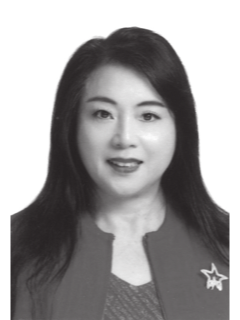
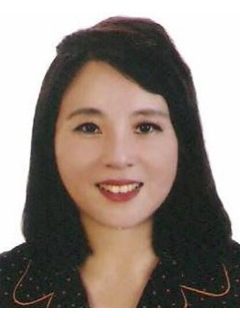
fix: replace Hung portrait with permitted color image (#71)

diff --git a/scripts/lib/portraits.js b/scripts/lib/portraits.js
@@ -1,4 +1,4 @@
-// 候選人正式肖像：核對中選會公報或立法院委員頁、姓名對應、原圖與成品、各站授權，建置與關卡共用。
+// 候選人正式肖像：核對官方來源或 ADR 指定單張許可例外、姓名、原圖與成品、使用依據，建置與關卡共用。
 // Node 專用；不依臉部推斷身分，姓名欄與影像物件的對應由抽取者目視核對並記錄。
 import { createHash } from 'node:crypto';
 
@@ -44,14 +44,25 @@ export function portraitProblems(dataset, manifest, readImage) {
         || item.imageAlt !== `${candidate.name}委員照片` || item.sourceCredit !== '委員研究室提供'
         || item.sourceLabel !== '立法院第11屆委員（委員研究室提供）' || item.sourceId !== undefined) fail('立法院委員頁、原圖、姓名對應或來源署名不符');
       if (rights?.declarationUrl !== LY_PORTRAIT_DECLARATION || rights?.licenseUrl !== null) fail('立法院授權依據不符');
+    } else if (item.sourceKind === 'ltn-permitted-portrait') {
+      if (candidate.id !== 'hung-li-hua' || candidate.name !== '洪麗華'
+        || item.sourceUrl !== 'https://news.ltn.com.tw/news/politics/breakingnews/5599336'
+        || item.imageUrl !== 'https://img.ltn.com.tw/Upload/news/600/2026/10/08/5599336_3_1.jpg'
+        || item.caption !== '洪麗華競選形象照。（記者張軒哲翻攝）'
+        || item.sourceCredit !== '記者張軒哲翻攝' || item.sourceLabel !== '自由時報（記者張軒哲翻攝）'
+        || item.photographer !== null || item.sourceId !== undefined
+        || item.originalWidth !== 415 || item.originalHeight !== 512) fail('指定照片、姓名、尺寸或翻攝署名不符');
+      if (rights?.evidence !== '維護者於2026-10-25確認已取得使用許可' || rights?.checkedAt !== '2026-10-25'
+        || rights?.declarationUrl !== undefined || rights?.licenseUrl !== undefined
+        || rights?.specialExclusion !== undefined) fail('指定照片的維護者許可確認不符，不得冒用開放授權');
     } else fail('不支援的肖像來源');
     if (!date(item.retrievedAt) || !date(item.identityCheckedAt) || !text(item.position) || !text(item.extraction)
       || !(item.photographer === null || text(item.photographer))) fail('抽取或姓名位置核對紀錄不完整');
-    if (rights?.status !== 'cleared' || rights.specialExclusion !== false || !date(rights.checkedAt)
+    if (rights?.status !== 'cleared' || (item.sourceKind !== 'ltn-permitted-portrait' && rights.specialExclusion !== false) || !date(rights.checkedAt)
       || !text(rights.evidence) || !text(rights.limitations)) fail('授權依據未確認或有特別排除');
     if (item.width !== PORTRAIT_SIZE.width || item.height !== PORTRAIT_SIZE.height) fail('肖像尺寸不一致');
     if (!/^[a-z0-9-]+$/.test(candidate.id) || item.file !== `${candidate.id}.png`) { fail('肖像檔名不符'); continue; }
-    const originalExtension = item.sourceKind === 'ly-legislator' ? 'jpg' : 'png';
+    const originalExtension = item.sourceKind === 'cec-bulletin' ? 'png' : 'jpg';
     if (item.originalFile !== `${candidate.id}-original.${originalExtension}`) fail('原圖檔名不符');
     else {
       const original = readImage(item.originalFile);

diff --git a/test/portraits.test.js b/test/portraits.test.js
@@ -41,6 +41,52 @@ function mixedFixture() {
   return f;
 }
 
+// 指定照片例外須核對真實姓名；不建立掛真實姓名的示範政見。
+function permittedFixture() {
+  const f = mixedFixture();
+  const candidate = f.dataset.candidates[2];
+  candidate.id = 'hung-li-hua'; candidate.name = '洪麗華';
+  f.manifest.items[2] = {
+    ...f.manifest.items[2], candidateId: candidate.id, candidateName: candidate.name,
+    sourceKind: 'ltn-permitted-portrait', sourceId: undefined,
+    sourceUrl: 'https://news.ltn.com.tw/news/politics/breakingnews/5599336',
+    imageUrl: 'https://img.ltn.com.tw/Upload/news/600/2026/10/08/5599336_3_1.jpg',
+    caption: '洪麗華競選形象照。（記者張軒哲翻攝）', sourceCredit: '記者張軒哲翻攝',
+    sourceLabel: '自由時報（記者張軒哲翻攝）',
+    file: 'hung-li-hua.png', originalFile: 'hung-li-hua-original.jpg',
+    originalWidth: 415, originalHeight: 512,
+    rights: { status: 'cleared', checkedAt: '2026-10-25',
+      evidence: '維護者於2026-10-25確認已取得使用許可',
+      limitations: '僅此指定照片作中立辨識，不推論其他素材授權' },
+  };
+  return f;
+}
+
+test('指定照片僅憑維護者明確確認使用許可放行，照片來源與學經歷分開', () => {
+  const f = permittedFixture();
+  assert.deepEqual(portraitProblems(f.dataset, f.manifest, f.readImage), []);
+  attachPortraits(f.dataset, f.manifest);
+  assert.equal(f.dataset.candidates[2].portrait.sourceUrl, 'https://news.ltn.com.tw/news/politics/breakingnews/5599336');
+  assert.notEqual(f.dataset.candidates[2].profile.sourceId, undefined);
+});
+
+for (const [name, change] of [
+  ['未確認許可', i => i.rights.status = 'pending'],
+  ['沒有確認紀錄', i => i.rights.evidence = '公開上網'],
+  ['冒用開放授權', i => i.rights.licenseUrl = 'https://data.gov.tw/license'],
+  ['其他新聞頁', i => i.sourceUrl = 'https://news.ltn.com.tw/news/politics/breakingnews/5599337'],
+  ['活動照片', i => i.imageUrl = 'https://img.ltn.com.tw/Upload/news/600/2026/10/08/5599336_1_1.jpg'],
+  ['姓名不符', i => i.candidateName = '候選人乙'],
+  ['漏翻攝署名', i => i.caption = '洪麗華競選形象照。'],
+  ['翻攝者冒充原攝影者', i => i.photographer = '張軒哲'],
+  ['原圖尺寸不符', i => i.originalWidth = 600],
+  ['原圖雜湊不符', i => i.originalSha256 = 'a'.repeat(64)],
+  ['成品雜湊不符', i => i.fileSha256 = 'a'.repeat(64)],
+]) test(`指定照片遇${name}拒絕整組`, () => {
+  const f = permittedFixture(); change(f.manifest.items[2]);
+  assert.ok(portraitProblems(f.dataset, f.manifest, f.readImage).length > 0);
+});
+
 test('可用官方肖像個別更新，立法院與公報混用，照片出處獨立於學經歷', () => {
   const f = mixedFixture();
   assert.deepEqual(portraitProblems(f.dataset, f.manifest, f.readImage), []);

diff --git a/test/portrait-display.test.js b/test/portrait-display.test.js
@@ -7,6 +7,25 @@ const candidates = ['a','b','c'].map((id) => ({ id, profile: { sourceId: `src-${
 const deferred = () => { let resolve, reject; const promise = new Promise((a,b) => {resolve=a;reject=b;}); return {promise,resolve,reject}; };
 const images = () => candidates.map(() => { const d=deferred(); return { ...d, decode: () => d.promise, naturalWidth:240, naturalHeight:320 }; });
 
+test('指定許可肖像與官方照片一起呈現，錯誤候選人或其他新聞頁仍全退回', () => {
+  const mixed = structuredClone(candidates);
+  Object.assign(mixed[2], { id: 'hung-li-hua', name: '洪麗華', portrait: {
+    url: 'data/portraits/hung-li-hua.png', sourceKind: 'ltn-permitted-portrait',
+    sourceUrl: 'https://news.ltn.com.tw/news/politics/breakingnews/5599336',
+    sourceLabel: '自由時報（記者張軒哲翻攝）', retrievedAt: '2026-10-25',
+  } });
+  assert.equal(portraitSet(mixed).length, 3);
+  for (const change of [
+    c => c[2].name = '候選人乙',
+    c => { c[2].id = 'other'; c[2].portrait.url = 'data/portraits/other.png'; },
+    c => c[2].portrait.sourceUrl = 'https://news.ltn.com.tw/news/politics/breakingnews/5599337',
+    c => c[2].portrait.sourceLabel = '自由時報',
+  ]) {
+    const copy = structuredClone(mixed); change(copy);
+    assert.deepEqual(portraitSet(copy), []);
+  }
+});
+
 test('肖像只在三人具本機影像與獨立官方出處時可呈現，來源可混合', () => {
   assert.equal(portraitSet(candidates).length,3);
   const mixed = structuredClone(candidates);

diff --git a/site/js/candidate-portraits.js b/site/js/candidate-portraits.js
@@ -1,12 +1,16 @@
 // 候選人資料卡的正式肖像：Node 可測，不碰 three.js，不在其他檢視畫照片。
 // 每組三張全部解碼後才一起顯示；任一組失敗，已開啟的各組與後續重畫都一致回退。
+// 官方來源之外僅接受 ADR 明列的洪麗華單張許可例外；完整使用依據由建置與關卡核對。
 export function portraitSet(candidates) {
   if (candidates.length !== 3 || new Set(candidates.map(c => c.id)).size !== 3) return [];
   if (!candidates.every(c => c.profile && c.portrait
     && /^[a-z0-9-]+$/.test(c.id) && c.portrait.url === `data/portraits/${c.id}.png`
     && typeof c.portrait.sourceLabel === 'string' && c.portrait.sourceLabel.trim()
     && ((c.portrait.sourceKind === 'cec-bulletin' && /^https:\/\/([a-z0-9-]+\.)*cec\.gov\.tw\//.test(c.portrait.sourceUrl))
-      || (c.portrait.sourceKind === 'ly-legislator' && /^https:\/\/www\.ly\.gov\.tw\/Pages\/List\.aspx\?nodeid=\d+$/.test(c.portrait.sourceUrl))))) return [];
+      || (c.portrait.sourceKind === 'ly-legislator' && /^https:\/\/www\.ly\.gov\.tw\/Pages\/List\.aspx\?nodeid=\d+$/.test(c.portrait.sourceUrl))
+      || (c.portrait.sourceKind === 'ltn-permitted-portrait' && c.id === 'hung-li-hua' && c.name === '洪麗華'
+        && c.portrait.sourceUrl === 'https://news.ltn.com.tw/news/politics/breakingnews/5599336'
+        && c.portrait.sourceLabel === '自由時報（記者張軒哲翻攝）')))) return [];
   return candidates.map(c => c.portrait);
 }
 

diff --git a/site/js/dataset.js b/site/js/dataset.js
@@ -90,7 +90,8 @@ const SCHEMAS = {
     'rawPolicyItems.total': 'count?',
     'rawPolicyItems.sourceIds': 'strings',
     dataStatus: 'string?',
-    // 僅建置時加入；正式肖像的完整來源與授權證據在肖像清單，三人全有或全無。
+    // 僅建置時加入；來源為 cec-bulletin、ly-legislator 或 ADR 單張例外 ltn-permitted-portrait。
+    // 完整來源與使用依據在肖像清單，三人全有或全無；照片不借指學經歷來源。
     'portrait?': 'object',
     'portrait.url': 'string',
     'portrait.sourceKind': 'string',

diff --git a/data/extraction/candidate-portraits.md b/data/extraction/candidate-portraits.md
@@ -1,16 +1,22 @@
 # 正式肖像抽取方法
 
-依 ADR 0001 的有限例外，正式肖像僅在候選人資料卡使用。可依已核對的可用官方素材個別更新，不必三人同年、同站或同色，各自保留原色。三人同尺寸、同處理，照片與來源授權全部齊全才公開；任一載入失敗仍全組回退。不延伸到政見、3D 人物、政績或其他個人資料。學經歷仍逐字取自中選會公報，照片出處另列。
+依 ADR 0001 的有限例外，正式肖像僅在候選人資料卡使用。可依已核對的可用官方素材或明列的單張許可例外個別更新，不必三人同年、同站或同色，各自保留原色。三人同尺寸、同處理，照片與使用依據全部齊全才公開；任一載入失敗仍全組回退。不延伸到政見、3D 人物、政績或其他個人資料。學經歷仍逐字取自中選會公報，照片出處另列。
 
-## 來源與權利核對（2026-10-24）
+## 來源與權利核對（2026-10-25 更新）
 
 | 候選人 | 照片來源 | 原圖與姓名對應 | 來源註記 |
 |---|---|---|---|
 | 江啟臣 | [立法院第11屆委員頁](https://www.ly.gov.tw/Pages/List.aspx?nodeid=46764) | [官方原圖](https://www.ly.gov.tw/Images/Legislators/110009.jpg)，頁面姓名與照片替代文字「江啟臣委員照片」對應 | 委員研究室提供 |
 | 何欣純 | [立法院第11屆委員頁](https://www.ly.gov.tw/Pages/List.aspx?nodeid=46765) | [官方原圖](https://www.ly.gov.tw/Images/Legislators/110010.jpg)，頁面姓名與照片替代文字「何欣純委員照片」對應 | 委員研究室提供 |
-| 洪麗華 | 中選會2024年第11屆立法委員選舉公報，臺中市第2選舉區 | 第1頁左下「洪麗華」姓名欄下方，2024號次3，影像物件97 0 | 原公報未標攝影者 |
+| 洪麗華 | [自由時報指定頁面](https://news.ltn.com.tw/news/politics/breakingnews/5599336) | [指定原圖](https://img.ltn.com.tw/Upload/news/600/2026/10/08/5599336_3_1.jpg)，圖說「洪麗華競選形象照。（記者張軒哲翻攝）」對應 | 記者張軒哲翻攝；未標原攝影者 |
 
-完整來源網址、取得日期、原圖與成品雜湊、姓名位置與授權紀錄在[正式肖像清單](https://github.com/kcchien/tc-policy-island/blob/main/data/portraits/manifest.json)。身分依姓名與影像在官方頁面的對應核對，不以臉部推斷。立法院兩張為彩色，拍攝日期未標示，第11屆不是拍攝年份，不宣稱2026年近照。洪麗華沿用已核准黑白照。本輪不採用未附本站使用許可的媒體照片。
+完整來源網址、取得日期、原圖與成品雜湊、姓名位置與使用依據在[正式肖像清單](https://github.com/kcchien/tc-policy-island/blob/main/data/portraits/manifest.json)。身分依姓名與影像在來源頁面的對應核對，不以臉部推斷。三張均為彩色，拍攝日期未標示，第11屆不是拍攝年份，不宣稱2026年近照。
+
+### 洪麗華指定照片的單張許可例外
+
+使用依據僅記錄「維護者於2026-10-25確認已取得使用許可」。未獨立核實授權人、文件或範圍，不宣稱自由時報網站開放授權，不套用中選會或立法院宣告。此例外僅限上表指定頁面、原圖及圖說，不是媒體通用白名單；政見及學經歷仍限原本的一手來源。來源頁的圖片連結、替代文字與圖說均明確對應洪麗華競選形象照，不採另一張活動照片。
+
+保留自由時報來源及「記者張軒哲翻攝」署名。翻攝者不等於原攝影者，未標原攝影者不代表沒有攝影者。本站僅作中立辨識，不暗示任何人認可本站，不修臉、不作宣傳代言；使用許可不代替肖像等人格權判斷。發現權利衝突即全組停用。
 
 ### 立法院照片
 
@@ -20,7 +26,7 @@
 
 ### 中選會照片
 
-洪麗華公報第1頁姓名欄與照片物件已逐一核對；逐頁目視兩頁、搜尋全文及檢視正式來源列表頁，未見照片特別排除或攝影者署名。第2頁為投開票所一覽表。這是本次檢視結果，不推論所有中選會素材皆無限制。
+先前洪麗華黑白照取自公報第1頁姓名欄與照片物件，已由上述指定彩照替換。以下中選會使用依據只適用公報照片，不是此次媒體照片的使用依據。
 
 使用依據是中選會[網站資料開放宣言](https://web.cec.gov.tw/central/article/21322)及[政府資料開放授權條款第1版](https://data.gov.tw/license)，不是「公文無著作權」。宣言第一節涵蓋全站資料與素材於著作權範圍的重製、改作、編輯與公開傳輸，要求註明出處；第二節保留特別聲明須同意的素材排除。須尊重姓名表示與禁止不當變更，不暗示官方認可。
 
@@ -28,10 +34,10 @@
 
 ## 抽取與影像處理
 
-1. 立法院照片保存官方原始 JPEG，核對委員頁姓名、照片替代文字、原圖連結與來源註記。中選會照片用 `pdfimages -png` 抽出公報原始影像，記錄公報雜湊、頁面、影像物件與姓名欄位置。兩類都保存原圖及 SHA-256，不依臉部辨認。
-2. 三人同用「完整原圖等比例放進240×320範圍」規則：用 `sips` 等比例縮放，再以 `FFFFFF` 補足240×320。兩張立法院原圖皆826×1062，以寬240縮放後補白；洪麗華沿用既有以高320縮放的成品，不為任何一人另調構圖。
+1. 立法院照片保存官方原始 JPEG，核對委員頁姓名、照片替代文字、原圖連結與來源註記。中選會照片用 `pdfimages -png` 抽出公報原始影像，記錄公報雜湊、頁面、影像物件與姓名欄位置。指定許可照片保存原始 JPEG，核對來源頁姓名、圖片連結、完整圖說與翻攝署名。均保存原圖及 SHA-256，不依臉部辨認。
+2. 三人同用「完整原圖等比例放進240×320範圍」規則：用 `sips` 等比例縮放，再以 `FFFFFF` 補足240×320。兩張立法院原圖皆826×1062，洪麗華指定原圖415×512，均以寬240縮放後補白；不為任何一人另調構圖。
 3. 不去背、不改臉、不銳化、不調膚色、不生成、不上色。彩色與黑白各自保留原色，原照服飾配件保留在完整影像中，不獨立當本站識別。
 4. 完整清單記錄候選人識別碼及姓名、來源類型、實際來源網址及說明、原圖網址或公報物件、屆別或選舉年份、取得日、姓名位置與核對日、原圖及成品雜湊、處理方式、240×320尺寸、署名、各站授權連結、特別排除及使用限制。攝影者為 `null` 只表示未標攝影者。
-5. 建置分別核對中選會公報與立法院委員頁兩類來源規則、姓名、官方網域、必要署名、各站授權宣告、日期、原圖及成品雜湊、尺寸。中選會仍與原有候選人資料公報核對；立法院照片有獨立出處，不借指學經歷公報。任一缺漏，清除舊公開影像且三人均不加肖像欄位。原圖隨成品及清單複製，建置後關卡再核對一次。
+5. 建置分別核對中選會公報、立法院委員頁的來源規則與宣告，以及單張許可例外的精確頁面、原圖、姓名、圖說、翻攝署名與維護者確認紀錄，另核對日期、原圖及成品雜湊、尺寸。中選會仍與原有候選人資料公報核對；其他照片有獨立出處，不借指學經歷公報。任一缺漏，清除舊公開影像且三人均不加肖像欄位。原圖隨成品及清單複製，建置後關卡再核對一次。
 6. 瀏覽器每組三張全部成功解碼、尺寸相符才一起顯示；索引與對話框共用失敗狀態，任一失敗全頁各組均回退，後續重畫也不再顯示。沿用文字資料卡，不留破圖。
 7. 卡片照片均以80×80圓形遮罩放在姓名左側，三人使用相同等比例填滿、水平置中與靠上設定及中性色細邊框，保留髮頂、五官與下巴，不拉伸、不改原始影像檔，儘量不露胸前配件。各張附實際照片出處與本使用說明連結，學經歷資料來源另列。任一人的可用新照片可單獨替換，另外兩人沿用已核准照片，三份正式素材仍須完整。

diff --git a/docs/adr/0001-neutrality-rules.md b/docs/adr/0001-neutrality-rules.md
@@ -9,7 +9,7 @@
 - 候選人在 3D 場景中以同一款中性人物呈現，身形、精緻度、動作相同，不模仿長相，只以名牌與形狀區分。
 - 候選人資料欄位固定為姓名、政黨、出生年、學歷、經歷，三人相同；正式肖像只依下節有限例外加入。來源只用中選會（選舉資料庫、選舉公報），經歷逐字呈現，不改寫。不收政績、爭議、財產、媒體報導與候選人自我介紹。
 - 島上元素只取與市政建設無關的在地元素，不放任何與市長任期綁定的地標。
-- 只收一手來源，不收媒體報導。
+- 政見與學經歷只收原本規定的一手來源，不收媒體報導；正式肖像僅另有下節明列的單張照片例外。
 - 每人篇幅與字級相同。不評分、不排名、不推薦。
 - 不收民調，不放捐款或催票連結，不放任何陣營的 logo 或照片；正式肖像只依下節有限例外使用。
 - 名稱、文案、網域不得使用任何候選人的品牌用語或其諧音。
@@ -21,6 +21,7 @@
 
 ## 正式肖像有限例外（2026-10-24 核准）
 
+- 2026-10-25 單張照片例外：洪麗華可使用[自由時報指定頁面](https://news.ltn.com.tw/news/politics/breakingnews/5599336)中圖說「洪麗華競選形象照。（記者張軒哲翻攝）」對應的[指定原圖](https://img.ltn.com.tw/Upload/news/600/2026/10/08/5599336_3_1.jpg)。使用依據僅記錄「維護者於2026-10-25確認已取得使用許可」，未獨立核實授權人、文件或範圍，不宣稱網站開放授權。保留自由時報來源與記者張軒哲翻攝署名，翻攝者不等於原攝影者。此例外只限這張正式肖像，不是媒體通用白名單，不延伸到政見、學經歷或其他照片；下列相同處理、用途限制與全組回退仍適用。
 - 只放候選人資料卡，包含索引面板「候選人」分頁共用的資料卡。不放政見卡片、表格欄頭或 3D 場景，不改變候選人人物造型。
 - 正式肖像可取中選會選舉公報或立法院官方委員頁，依已核對的可用素材個別更新，不要求三人同年、同站或同色，可為彩色與黑白混合。各自保留原色，等比例縮放到240×320範圍，以相同留白補足，不去背、不裁臉、不修臉、不生成、不加宣傳字樣。三人使用相同80×80 CSS 圓形遮罩與靠上構圖，保留髮頂、五官與下巴，原始影像不變。照片原有服飾配件不作為本站識別圖案，不把照片顏色移入介面。
 - 依公報姓名欄與照片位置，或官方委員頁姓名、照片替代文字與原圖連結核對對應，不從臉部推斷身分。照片出處獨立於學經歷公報，記錄實際來源頁、原圖、選舉年份或屆別、取得日期、原圖及成品雜湊、姓名對應、授權依據與限制。拍攝日期未標就不宣稱近照年份。

diff --git a/AGENTS.md b/AGENTS.md
@@ -56,6 +56,8 @@
 - 排序規則的欄位與說明文字只定義在 `CANDIDATE_ORDER_RULES`，判斷用 `candidateOrderOf`。
 - **正式肖像** `portrait?`：只在公開候選人，建置時全部核對完成才三人一起加入 `{ url, sourceKind, sourceUrl, sourceLabel, retrievedAt }`，否則全部沒有此欄位。`sourceKind` 只收 `cec-bulletin`（中選會選舉公報）或 `ly-legislator`（立法院第11屆委員頁）；`sourceUrl` 是實際照片來源頁，`sourceLabel` 是含必要署名的白話來源名稱，與學經歷的公報出處分開。可依可用素材個別更新，不要求同年同站同色，保留原色。`url` 只指向本站 `data/portraits/<candidateId>.png`。原始照片及完整來源授權清單放 `data/portraits/`，以 `scripts/lib/portraits.js` 核對姓名、兩類官方來源及各站宣告、日期、原圖與成品雜湊、尺寸；原圖亦隨建置複製供關卡重驗。僅 `candidate-card.js` 共用資料卡可呈現，任一載入失敗全頁三人均回退。見 ADR 0001 正式肖像有限例外。
 
+正式肖像另收 `sourceKind: ltn-permitted-portrait`，只限 ADR 0001 明列的洪麗華單張照片許可例外：自由時報 5599336 頁、5599336_3_1.jpg 與完整圖說、翻攝署名須逐一相符；原圖415×512及成品240×320、雜湊均核對。使用依據僅記「維護者於2026-10-25確認已取得使用許可」，不冒稱已獨立核實或網站開放授權，不套官方來源宣告。政見與學經歷來源不變。公開 `portrait` 欄位形狀及三人完整、全組回退規則不變。
+
 檢視模型的輸出、網址參數與候選人資料卡的開啟流程見 `docs/architecture.md`。
 
 ### 資料與夾具

diff --git a/docs/architecture.md b/docs/architecture.md
@@ -61,6 +61,8 @@ js/island-list.js  js/ui-text.js  js/dom.js  js/collection-note.js  js/hits.js  
 
 ### 開啟候選人資料卡
 
+照片來源另支持 ADR 0001 明列的 `ltn-permitted-portrait` 單張許可例外，僅洪麗華指定頁、圖、姓名與翻攝圖說。維護者確認使用許可與官方網站開放宣告分別驗證，不改學經歷與政見來源。公開欄位、顯示流程與全組回退相同。
+
 正式肖像只由 `candidate-card.js` 掛載，索引與對話框共用同一個 `candidate-portraits.js` 批次失敗狀態。每組三張全部解碼、尺寸相符後才一起顯示；任一組失敗時，所有組與之後重畫均回退。公開候選人的 `portrait` 只在建置階段由 `scripts/lib/portraits.js` 核對完整清單後加入；照片的 `sourceKind/sourceUrl/sourceLabel` 獨立於學經歷的 `profileSource`，可混用已核對的中選會與立法院照片，保留原色。原圖與成品一起複製，關卡重驗兩者雜湊及各站來源授權。檢視模型沿用該欄位，其他檢視不讀。
 
 `main.js` 的 `openCandidateCard(candidateId)`，開啟對話框（手機為底部抽屜），三張卡片依排序規則並排，捲到並標示該候選人那張，網址寫入 `candidate`；候選人不存在時回傳 `false`。不要只放一張卡片，三人篇幅須相同（ADR 0001）。`main.js` 把它以 `onSelectCandidate` 傳給 `createIslandView`，點候選人人物或廣場名牌上的姓名時呼叫。進站時網址的優先順序是 `policy`、`area`、`candidate`，開其中一種卡片會清掉另外兩個參數。

diff --git a/GLOSSARY.md b/GLOSSARY.md
@@ -33,7 +33,7 @@ _Avoid_: 排名、序位
 _Avoid_: 候選人介紹、簡歷、背景
 
 **正式肖像**：
-中選會選舉公報或立法院官方委員頁中的候選人正式照片，只在候選人資料卡作中立辨識。可依可用素材個別更新，不必同年同站同色，各自保留原色。三人同尺寸、同處理、全有或全無，來源與授權均須核對，不改變 3D 候選人人物。
+中選會選舉公報、立法院官方委員頁，或 ADR 0001 明列的單張許可例外中的候選人正式照片，只在候選人資料卡作中立辨識。可依可用素材個別更新，不必同年同站同色，各自保留原色。三人同尺寸、同處理、全有或全無，來源與使用依據均須核對，不改變 3D 候選人人物。
 
 **候選人人物**：
 3D 場景中代表候選人的人物模型。三人同一款中性造型，不模仿長相，只以名牌與形狀區分。
